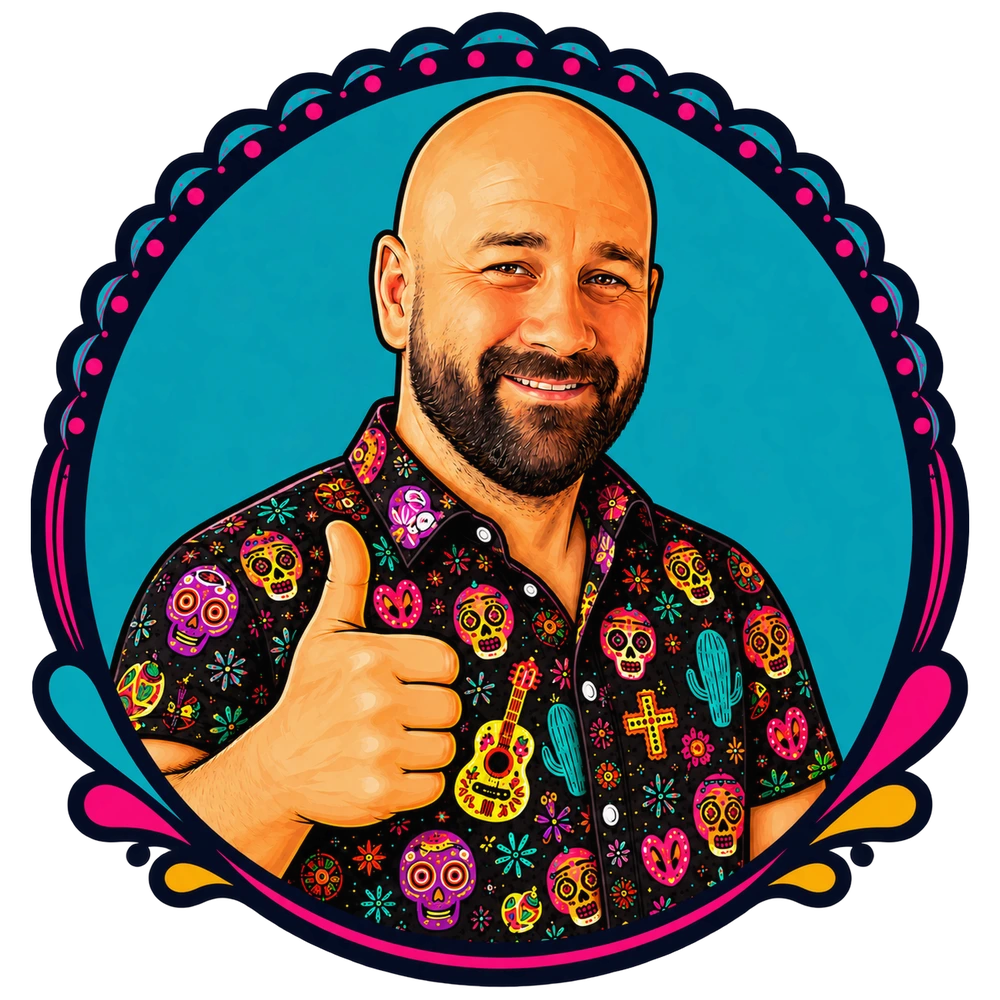
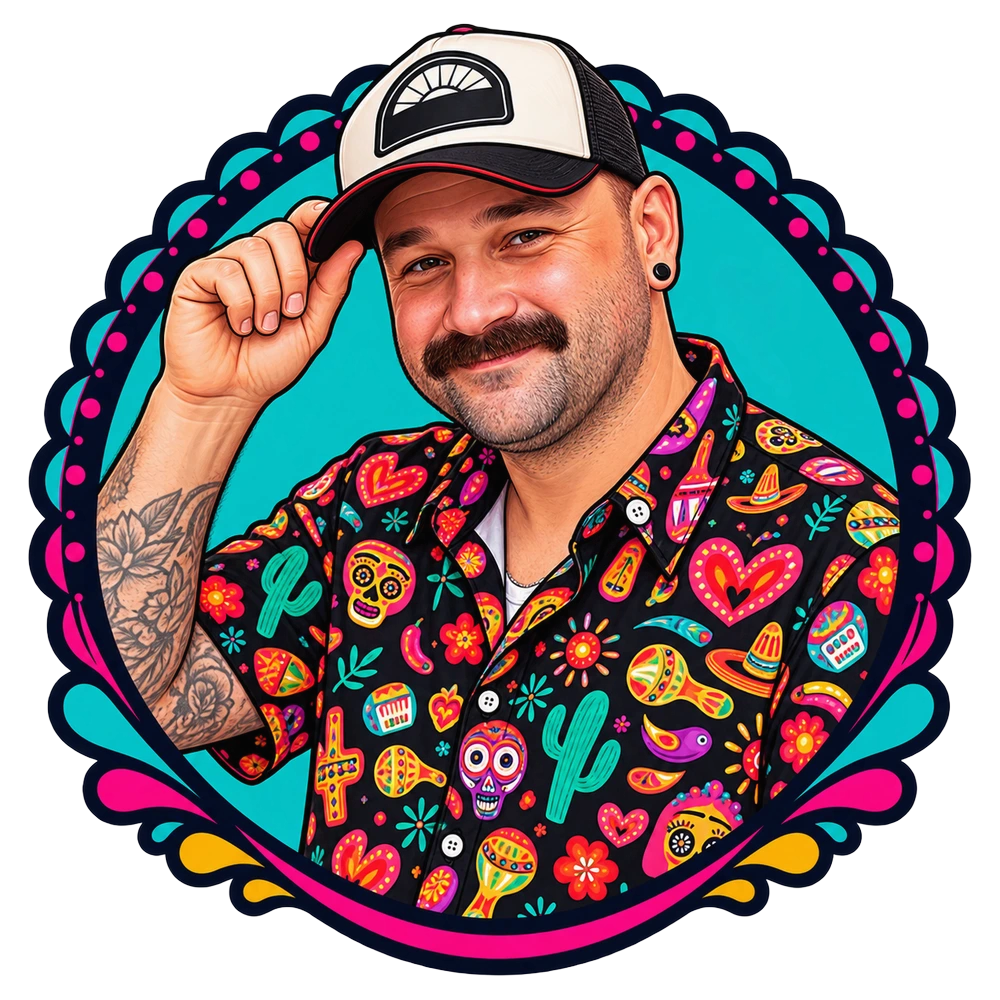
Add All Stars Team section and refresh founder photos
Adds 7 new team member photos (Barunka, Červeňáček, Denča, Maličká,
Pelíšek, Pepík, Simča) in an alphabetically-sorted, responsive grid
below the founder medailonky, plus updated portraits for the 4 core
founders. Documents the team photo pipeline refinements in CLAUDE.md.

Claude-Session: https://claude.ai/code/session_01QzrY6HjXQ7XJHFwwVsAo6g

diff --git a/CLAUDE.md b/CLAUDE.md
@@ -12,6 +12,8 @@ npm run preview  # serve dist/ locally
 
 Deploy is automatic: push to `main` → Vercel picks it up. No manual deploy step needed.
 
+There is no test suite and no `npm test` script. `playwright` is a devDependency used only for ad hoc, throwaway screenshot scripts (start `npm run dev`, drive a headless browser, screenshot, delete the script) to visually verify changes — not for automated tests.
+
 ## Architecture
 
 Single-page Astro static site (`output: 'static'`). One entry point: `src/pages/index.astro` renders every section component in a fixed order: `Nav` → `Hero` → `About` → `Menu` → `Events` → `EventTypes` → `Contact` (which also contains the `<footer>`).
@@ -30,7 +32,7 @@ Content lives in `src/data/` as typed TypeScript exports. Components import and 
 - `src/styles/typography.css` — type scale
 - Each `.astro` component has its own `<style>` block (scoped by Astro)
 
-**Layout.astro** does three things: injects Google Fonts (Climate Crisis + Quicksand), sets meta, and runs the scroll-reveal IntersectionObserver that adds `.visible` to `.reveal` elements.
+**Layout.astro** handles all page-level concerns: Google Fonts (Climate Crisis + Quicksand), full SEO head (canonical link, Open Graph, Twitter Card, `FoodEstablishment` JSON-LD structured data), favicon/apple-touch-icon links, and the scroll-reveal IntersectionObserver that adds `.visible` to `.reveal` elements. Canonical/OG URLs are built from `Astro.site`, which is set in `astro.config.mjs` (`site: 'https://www.udvoupratel.fun'`) — don't remove that or the URLs break.
 
 ## Key patterns
 
@@ -61,7 +63,15 @@ Fonts: **Climate Crisis** (headings, uppercase) · **Quicksand** (body, 400–70
 
 Heading `text-shadow` for chromatic aberration: `1px -1px 0 var(--color-teal), -1px 1px 0 var(--color-pink)`.
 
-Decoration assets (PNG illustrations) live in `public/elements/`. Founder portraits are `public/dzejdzej.png` and `public/kasik.png`.
+Decoration assets (PNG illustrations) live in `public/elements/`. Team portraits are `public/team-{name}.webp`, referenced from `About.astro`. Two tiers: the 4 core founders (`kasik`, `ferenc`, `martas`, `misa`) get a full `.about-founder` medailonek (role, name, title, bio) — each has a `.about-founder--{name}` modifier class mapping them to an accent color (teal/pink/orange/yellow), follow that pattern if the founder lineup changes. Everyone else is an "All Stars Team" `.about-friend` — photo + name only, no bio, name always pink, listed alphabetically by first name.
+
+## SEO & social assets
+
+`public/favicon.png`, `public/apple-touch-icon.png`, and `public/og-image.png` are all generated from `public/logo.png`, not hand-drawn — there's no build step for this. If the logo changes, regenerate all three (Pillow/PIL one-liners work fine: resize for favicon/apple-touch-icon, composite onto the `--color-dark` background with the site's radial teal/pink glow for the OG image at 1200×630). `public/robots.txt` and `public/sitemap.xml` are static, hand-written files (single-page site, so the sitemap lists just the one URL) — no `@astrojs/sitemap` integration.
+
+## Team photo pipeline
+
+Team portrait source images (dropped in ad hoc, not committed — see `.gitignore`) come in at inconsistent canvas sizes, with the illustrated badge itself sometimes physically smaller within its own canvas (not just extra padding — one source image genuinely had a smaller badge), and sometimes with a white background instead of transparency. Before dropping a new one into `public/`: flood-fill the white background to transparent seeding from every pixel along all four edges, not just the 4 corners (`PIL.ImageDraw.floodfill`, thresh ~18) — the badge's scalloped border can touch the canvas edge between the corners while the corners themselves are already transparent, so corner-only seeding misses those white gaps. Crop to the badge's alpha bounding box, then scale every portrait so the *badge content* is the same width (not just the canvas — canvas-only normalization was tried once and still produced a visibly smaller badge for one team member), then pad to a square canvas and export as `.webp`. Watch for isolated white leaks fully enclosed by the badge artwork (e.g. between an arm and the border) that no edge-seeded flood fill can reach — check big AI-art photos for these individually (component sizes/aspect ratios via `scipy.ndimage.label`, excluding small near-square blobs which are usually legitimate shirt buttons) and clear them with a targeted color-threshold pass.
 
 ## Tone
 
